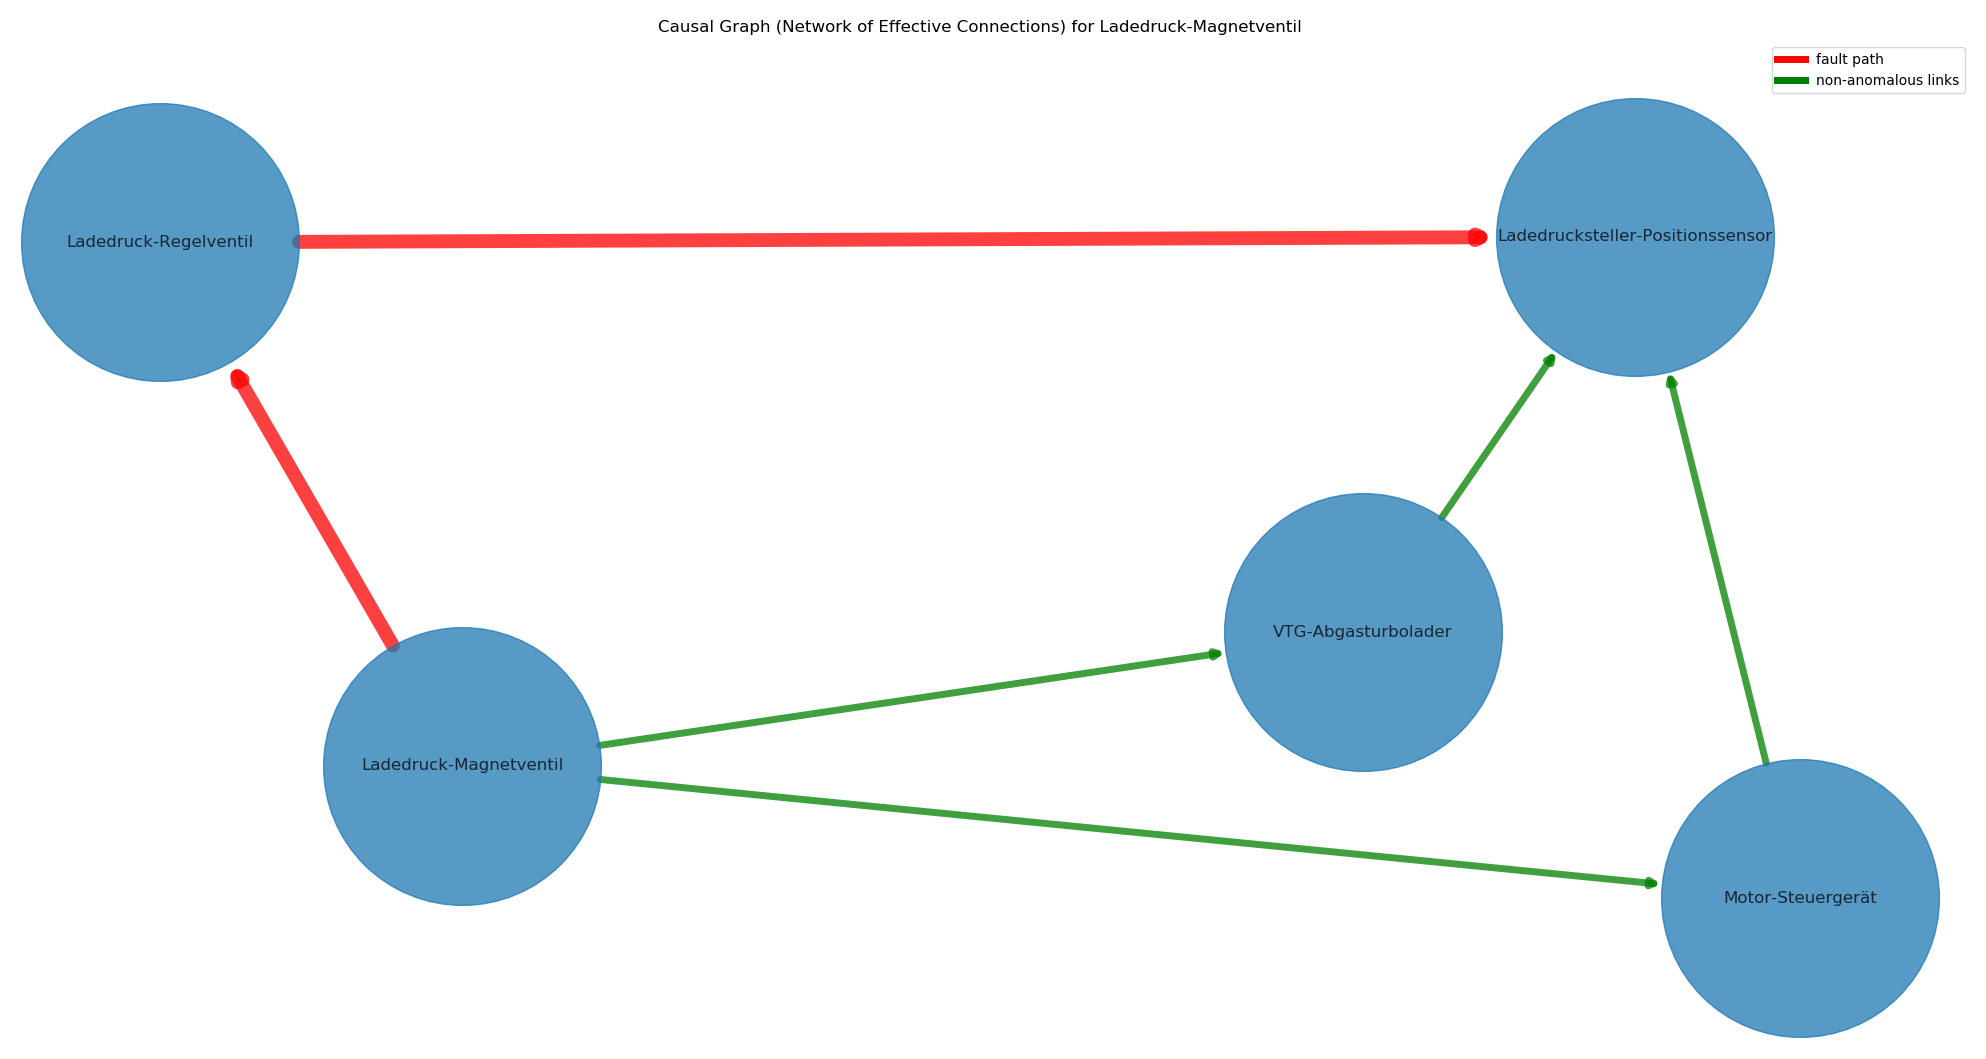
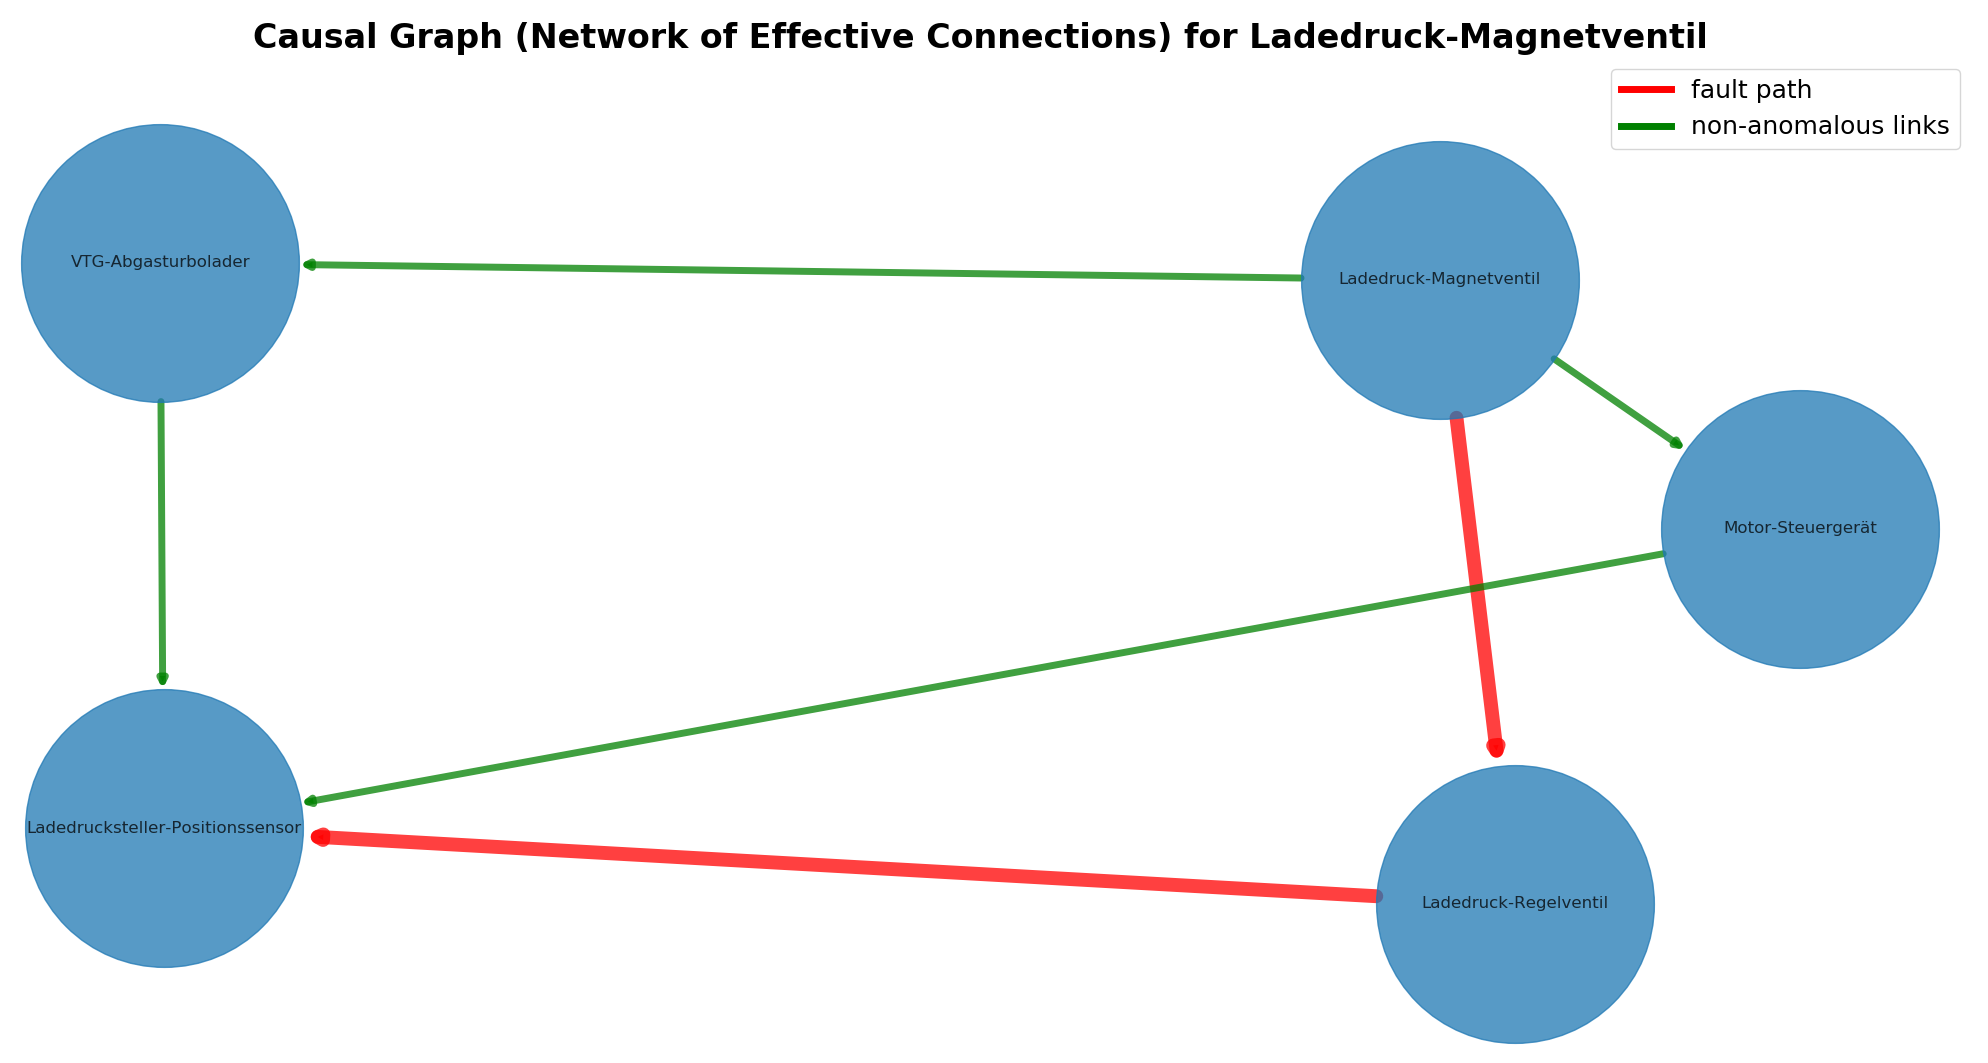
refine causal graph style

Changed region(s): [[0.0, 0.0, 0.999, 0.9972], [0.1249, 0.3739, 0.1561, 0.4674], [0.1249, 0.2805, 0.1561, 0.3428]]

diff --git a/high_level_smach.py b/high_level_smach.py
@@ -983,7 +983,7 @@ class IsolateProblemCheckEffectiveRadius(smach.State):
 
         for key in complete_graphs.keys():
             print("visualizing graph for component:", key)
-            plt.title("Causal Graph (Network of Effective Connections) for " + key)
+            plt.title("Causal Graph (Network of Effective Connections) for " + key, fontsize=24, fontweight='bold')
 
             from_relations = [k for k in complete_graphs[key].keys() for _ in range(len(complete_graphs[key][k]))]
             to_relations = [complete_graphs[key][k] for k in complete_graphs[key].keys()]
@@ -1006,7 +1006,7 @@ class IsolateProblemCheckEffectiveRadius(smach.State):
 
             legend_lines = [self.create_legend_lines(clr, lw=5) for clr in ['r', 'g']]
             labels = ["fault path", "non-anomalous links"]
-            plt.legend(legend_lines, labels)
+            plt.legend(legend_lines, labels, fontsize=18)
             plt.show()
 
     def execute(self, userdata: smach.user_data.Remapper) -> str:
